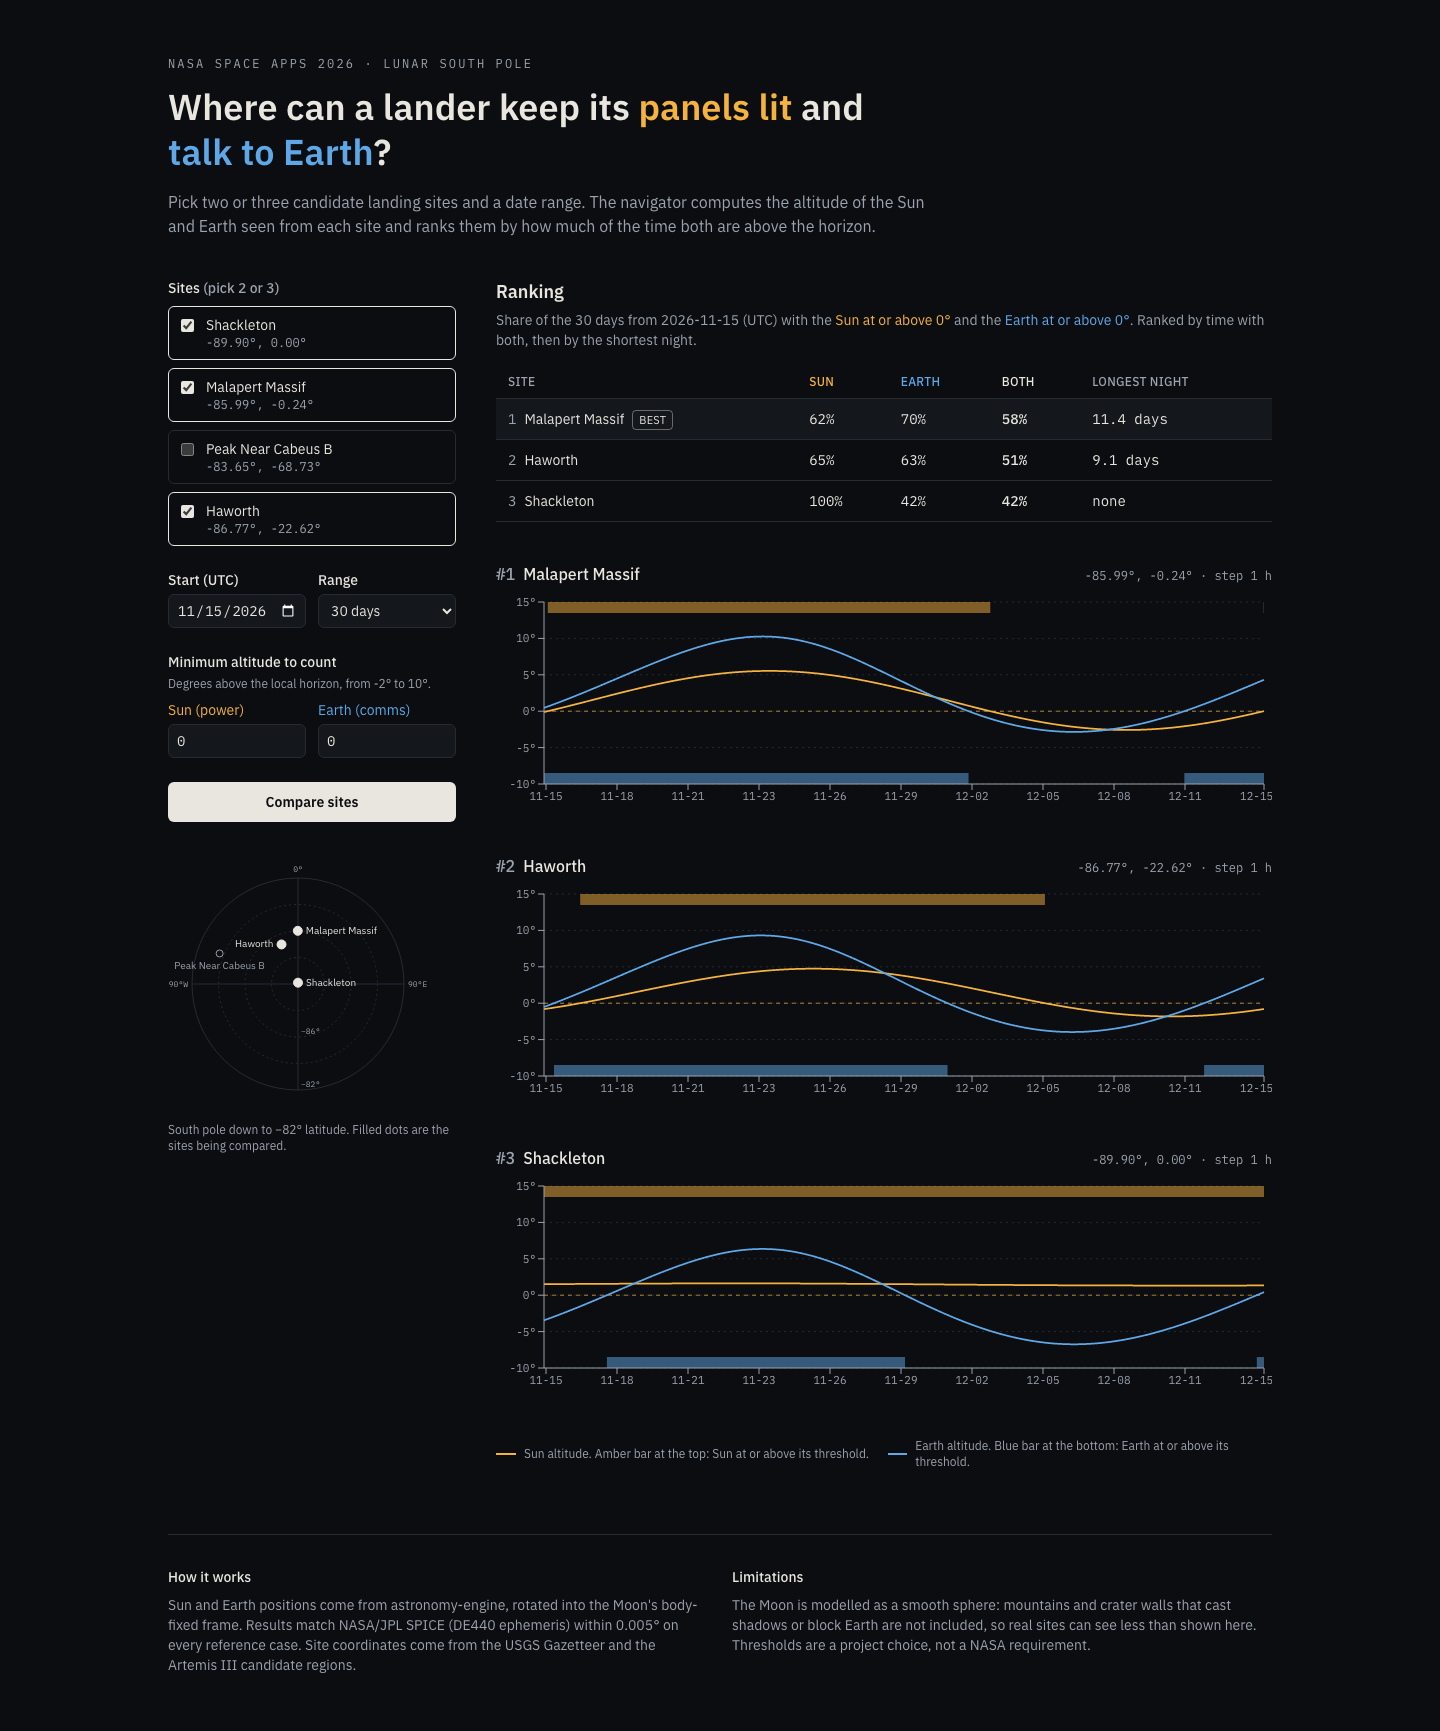
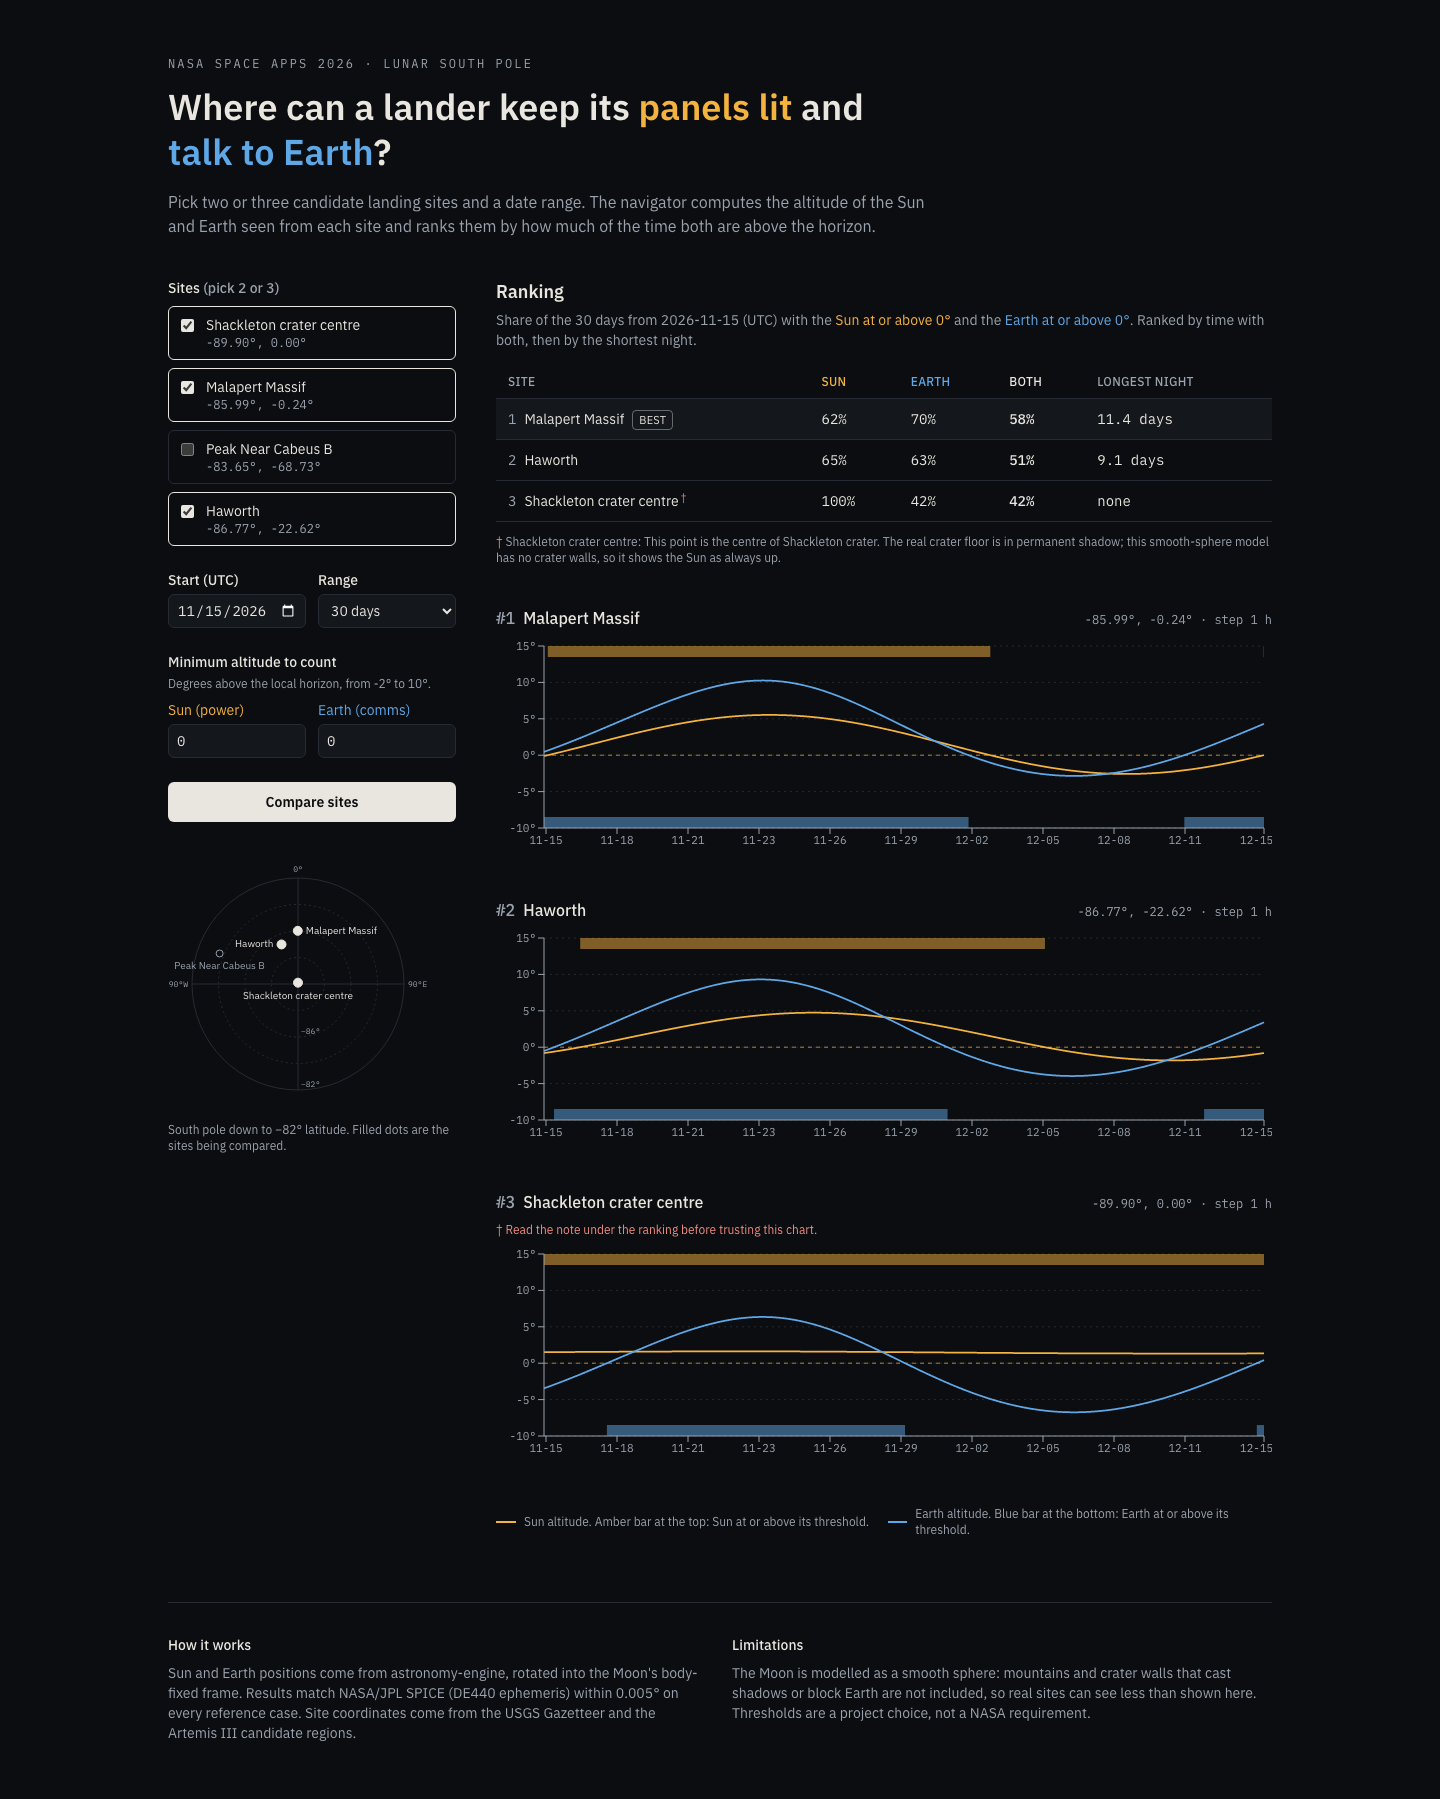
Label Shackleton as the crater centre and warn it is shadowed
The shackleton_rim coordinates are the centre of Shackleton crater,
whose real floor is in permanent shadow. On the smooth sphere it shows
the Sun up 100% of the time, which reads like a bug. Rename the display
name to "Shackleton crater centre", add an optional Site.note shown as
a footnote under the ranking and above the chart, and explain in the
README why its Sun curve is flat. The id stays the same so the SPICE
reference and shared URLs keep working. Screenshots retaken.

diff --git a/src/app/ui/navigator.tsx b/src/app/ui/navigator.tsx
@@ -169,6 +169,13 @@ export async function Navigator({ searchParams }: { searchParams: SearchParams }
           <div className="mt-4 overflow-x-auto">
             <ScoreTable results={results} />
           </div>
+          {results
+            .filter((r) => r.site.note)
+            .map((r) => (
+              <p key={r.site.id} className="mt-3 text-xs text-muted">
+                <span className="text-danger">†</span> {displayName(r.site)}: {r.site.note}
+              </p>
+            ))}
         </div>
 
         {results.map((r, i) => (
@@ -182,6 +189,11 @@ export async function Navigator({ searchParams }: { searchParams: SearchParams }
                 {coords(r.site.latDeg, r.site.lonDeg)} · step {stepMinutesFor(form.days) / 60} h
               </p>
             </div>
+            {r.site.note && (
+              <p className="mb-2 text-xs text-danger">
+                † Read the note under the ranking before trusting this chart.
+              </p>
+            )}
             <AltitudeChart
               samples={r.samples}
               sunWindows={r.sunWindows}
@@ -231,6 +243,11 @@ function ScoreTable({ results }: { results: readonly SiteComparison[] }) {
             <th scope="row" className="px-3 py-2.5 text-left text-sm font-normal">
               <span className="mr-2 font-mono text-muted">{i + 1}</span>
               {displayName(site)}
+              {site.note && (
+                <sup className="ml-0.5 text-danger" aria-label="see note below">
+                  †
+                </sup>
+              )}
               {i === 0 && (
                 <span className="ml-2 rounded-sm border border-regolith/40 px-1.5 py-0.5 text-[11px] uppercase tracking-wide text-regolith">
                   Best

diff --git a/src/lib/sites.ts b/src/lib/sites.ts
@@ -7,10 +7,12 @@ import { assertLatLon, type Site } from "./types";
 export const SITES: readonly Site[] = [
   {
     id: "shackleton_rim",
-    name: "Shackleton",
+    // The id says "rim" for historical reasons; the coordinates are the crater centre.
+    name: "Shackleton crater centre",
     latDeg: -89.9,
     lonDeg: 0.0,
     source: "USGS Gazetteer ID 5450, control network 3",
+    note: "This point is the centre of Shackleton crater. The real crater floor is in permanent shadow; this smooth-sphere model has no crater walls, so it shows the Sun as always up.",
   },
   {
     id: "malapert_candidate",

diff --git a/src/lib/sites.test.ts b/src/lib/sites.test.ts
@@ -9,6 +9,12 @@ describe("SITES", () => {
     expect(new Set(ids).size).toBe(ids.length);
   });
 
+  it("flags the Shackleton crater centre as shadowed in reality", () => {
+    const shackleton = getSite("shackleton_rim");
+    expect(shackleton.name).toBe("Shackleton crater centre");
+    expect(shackleton.note).toContain("permanent shadow");
+  });
+
   it("every site has valid latitude and longitude", () => {
     for (const s of SITES) {
       expect(() => assertLatLon(s.latDeg, s.lonDeg)).not.toThrow();

diff --git a/src/app/ui/site-map.tsx b/src/app/ui/site-map.tsx
@@ -10,7 +10,7 @@ const R = C - 24;
 
 // Hand-placed labels so the close Malapert/Haworth pair does not overlap.
 const LABEL: Record<string, { dx: number; dy: number; anchor: "start" | "end" | "middle" }> = {
-  shackleton_rim: { dx: 8, dy: 3, anchor: "start" },
+  shackleton_rim: { dx: 0, dy: 16, anchor: "middle" },
   malapert_candidate: { dx: 8, dy: 3, anchor: "start" },
   haworth_candidate: { dx: -8, dy: 3, anchor: "end" },
   peak_near_cabeus_b_candidate: { dx: 0, dy: 16, anchor: "middle" },

diff --git a/src/lib/types.ts b/src/lib/types.ts
@@ -10,6 +10,7 @@ export type Site = {
   readonly latDeg: number;
   readonly lonDeg: number;
   readonly source: string;
+  readonly note?: string; // caveat shown next to the site in the UI
 };
 
 export type AltitudeSample = {

diff --git a/README.md b/README.md
@@ -4,7 +4,7 @@ NASA Space Apps Challenge 2026 project. It compares candidate landing sites near
 
 **Live app:** https://lunar-landing-site-navigator-indol.vercel.app
 
-![Ranking and altitude charts for Malapert Massif, Haworth and Shackleton over 30 days](docs/screenshots/desktop.png)
+![Ranking and altitude charts for Malapert Massif, Haworth and the Shackleton crater centre over 30 days](docs/screenshots/desktop.png)
 
 ## The problem
 
@@ -32,13 +32,13 @@ Every comparison is a shareable URL. For example, Malapert Massif and Haworth ov
 /?site=malapert_candidate&site=haworth_candidate&start=2026-11-15&days=365&sun=1&earth=0
 ```
 
-| Parameter | Values                                 | Default                                   |
-| --------- | -------------------------------------- | ----------------------------------------- |
-| `site`    | 2 or 3 site ids (repeat the parameter) | Shackleton, Malapert Massif, Haworth      |
-| `start`   | `YYYY-MM-DD`, UTC                      | today                                     |
-| `days`    | `7`, `30`, `90`, `365`                 | `30` (hourly samples; 6-hourly for `365`) |
-| `sun`     | −2 to 10 (degrees)                     | `0`                                       |
-| `earth`   | −2 to 10 (degrees)                     | `0`                                       |
+| Parameter | Values                                 | Default                                            |
+| --------- | -------------------------------------- | -------------------------------------------------- |
+| `site`    | 2 or 3 site ids (repeat the parameter) | Shackleton crater centre, Malapert Massif, Haworth |
+| `start`   | `YYYY-MM-DD`, UTC                      | today                                              |
+| `days`    | `7`, `30`, `90`, `365`                 | `30` (hourly samples; 6-hourly for `365`)          |
+| `sun`     | −2 to 10 (degrees)                     | `0`                                                |
+| `earth`   | −2 to 10 (degrees)                     | `0`                                                |
 
 An invalid value falls back to its default, and the page shows a message saying so.
 
@@ -131,16 +131,17 @@ Re-running it reproduces all 32 rows, the sites and the kernel hashes exactly. O
 
 All four are provisional. Sources and open items are listed in the reference file.
 
-| Id                             | Latitude | Longitude | Source                                                         |
-| ------------------------------ | -------- | --------- | -------------------------------------------------------------- |
-| `shackleton_rim`               | −89.900° | 0.000°    | USGS Gazetteer, feature 5450 (control network 3)               |
-| `malapert_candidate`           | −85.987° | −0.237°   | Artemis III candidate region centre, USGS DOI 10.5066/P1MEQ6UK |
-| `peak_near_cabeus_b_candidate` | −83.651° | −68.726°  | Artemis III candidate region centre, USGS DOI 10.5066/P1MEQ6UK |
-| `haworth_candidate`            | −86.766° | −22.620°  | Artemis III candidate region centre, USGS DOI 10.5066/P1MEQ6UK |
+| Id                             | Latitude | Longitude | Source                                                                       |
+| ------------------------------ | -------- | --------- | ---------------------------------------------------------------------------- |
+| `shackleton_rim`               | −89.900° | 0.000°    | USGS Gazetteer, feature 5450 (control network 3); crater centre, not the rim |
+| `malapert_candidate`           | −85.987° | −0.237°   | Artemis III candidate region centre, USGS DOI 10.5066/P1MEQ6UK               |
+| `peak_near_cabeus_b_candidate` | −83.651° | −68.726°  | Artemis III candidate region centre, USGS DOI 10.5066/P1MEQ6UK               |
+| `haworth_candidate`            | −86.766° | −22.620°  | Artemis III candidate region centre, USGS DOI 10.5066/P1MEQ6UK               |
 
 ## Limitations
 
-- **Smooth sphere, no terrain.** Mountains and crater walls are not modelled, so a site may be in shadow, or have Earth blocked, when this model says otherwise. At the south pole, terrain strongly affects real illumination. For example, Shackleton has the Sun above the horizon 100% of the time in this model.
+- **Smooth sphere, no terrain.** Mountains and crater walls are not modelled, so a site may be in shadow, or have Earth blocked, when this model says otherwise. At the south pole, terrain strongly affects real illumination.
+- **Shackleton is the crater centre, not the rim.** Its id is `shackleton_rim` for historical reasons, but the coordinates are the centre of Shackleton crater from the USGS Gazetteer. The real crater floor is in permanent shadow. This model has no crater walls, so it shows the Sun up 100% of the time there. The app labels the site "Shackleton crater centre" and shows this warning. Its Sun curve is almost flat because the point is 0.1° from the pole: the Moon's rotation moves the Sun around the horizon, not up and down. Only the lunar seasons change its height, by about ±1.5° over the year.
 - **IAU rotation model.** The app's lunar frame differs from SPICE's `MOON_ME` by up to about 0.004° in altitude.
 - **Not NASA-confirmed.** The 0.005° tolerance and the choice of frame are project decisions.
 - **Haworth.** The candidate region does not contain the crater centre. Whether to use the region or the crater is still open.

diff --git a/notes/ai-usage-log.md b/notes/ai-usage-log.md
@@ -28,11 +28,12 @@ One entry per AI-assisted step: date, tool, what was asked, what was produced, a
 
 ## 2026-11-15 – Claude Code (Claude Opus 5.5)
 
-| Step       | Request                                                             | Result                                                                                                                         | Human check                      |
-| ---------- | ------------------------------------------------------------------- | ------------------------------------------------------------------------------------------------------------------------------ | -------------------------------- |
-| Merge      | Rebase `day-2-windows` on `main`, merge and push                    | Log conflict resolved by keeping both sides; `main` at `3eab37f`                                                               | User approved the merge and push |
-| Decisions  | Ask the open product questions before the UI                        | User chose: default thresholds 0°/0°, default range 30 days from today at 1 h steps                                            | User decided                     |
-| Comparison | `src/lib/comparison.ts`: read the form from the URL, compare sites  | Commit `57d3f10`; 9 tests, including equality with `scoreScenario`                                                             | Pending user review              |
-| UI         | Chart and comparison page                                           | Commit `1ffa067`: ranking table, Recharts charts with windows, polar SVG map; checked at 1440 px and 390 px, no console errors | User approved the merge and push |
-| Deploy     | Push to `main`                                                      | Vercel production build; 3 scenarios checked on the live URL                                                                   | —                                |
-| README     | Problem, app guide, screenshots, AI use, limitations and next steps | This commit                                                                                                                    | Pending user review              |
+| Step       | Request                                                             | Result                                                                                                                                                           | Human check                      |
+| ---------- | ------------------------------------------------------------------- | ---------------------------------------------------------------------------------------------------------------------------------------------------------------- | -------------------------------- |
+| Merge      | Rebase `day-2-windows` on `main`, merge and push                    | Log conflict resolved by keeping both sides; `main` at `3eab37f`                                                                                                 | User approved the merge and push |
+| Decisions  | Ask the open product questions before the UI                        | User chose: default thresholds 0°/0°, default range 30 days from today at 1 h steps                                                                              | User decided                     |
+| Comparison | `src/lib/comparison.ts`: read the form from the URL, compare sites  | Commit `57d3f10`; 9 tests, including equality with `scoreScenario`                                                                                               | Pending user review              |
+| UI         | Chart and comparison page                                           | Commit `1ffa067`: ranking table, Recharts charts with windows, polar SVG map; checked at 1440 px and 390 px, no console errors                                   | User approved the merge and push |
+| Deploy     | Push to `main`                                                      | Vercel production build; 3 scenarios checked on the live URL                                                                                                     | —                                |
+| README     | Problem, app guide, screenshots, AI use, limitations and next steps | This commit                                                                                                                                                      | Pending user review              |
+| Shackleton | Explain the flat Sun curve; label the site honestly                 | Found the coordinates are the crater centre (floor in permanent shadow). Renamed to "Shackleton crater centre" with a warning in the UI and README; id unchanged | User chose this option           |
